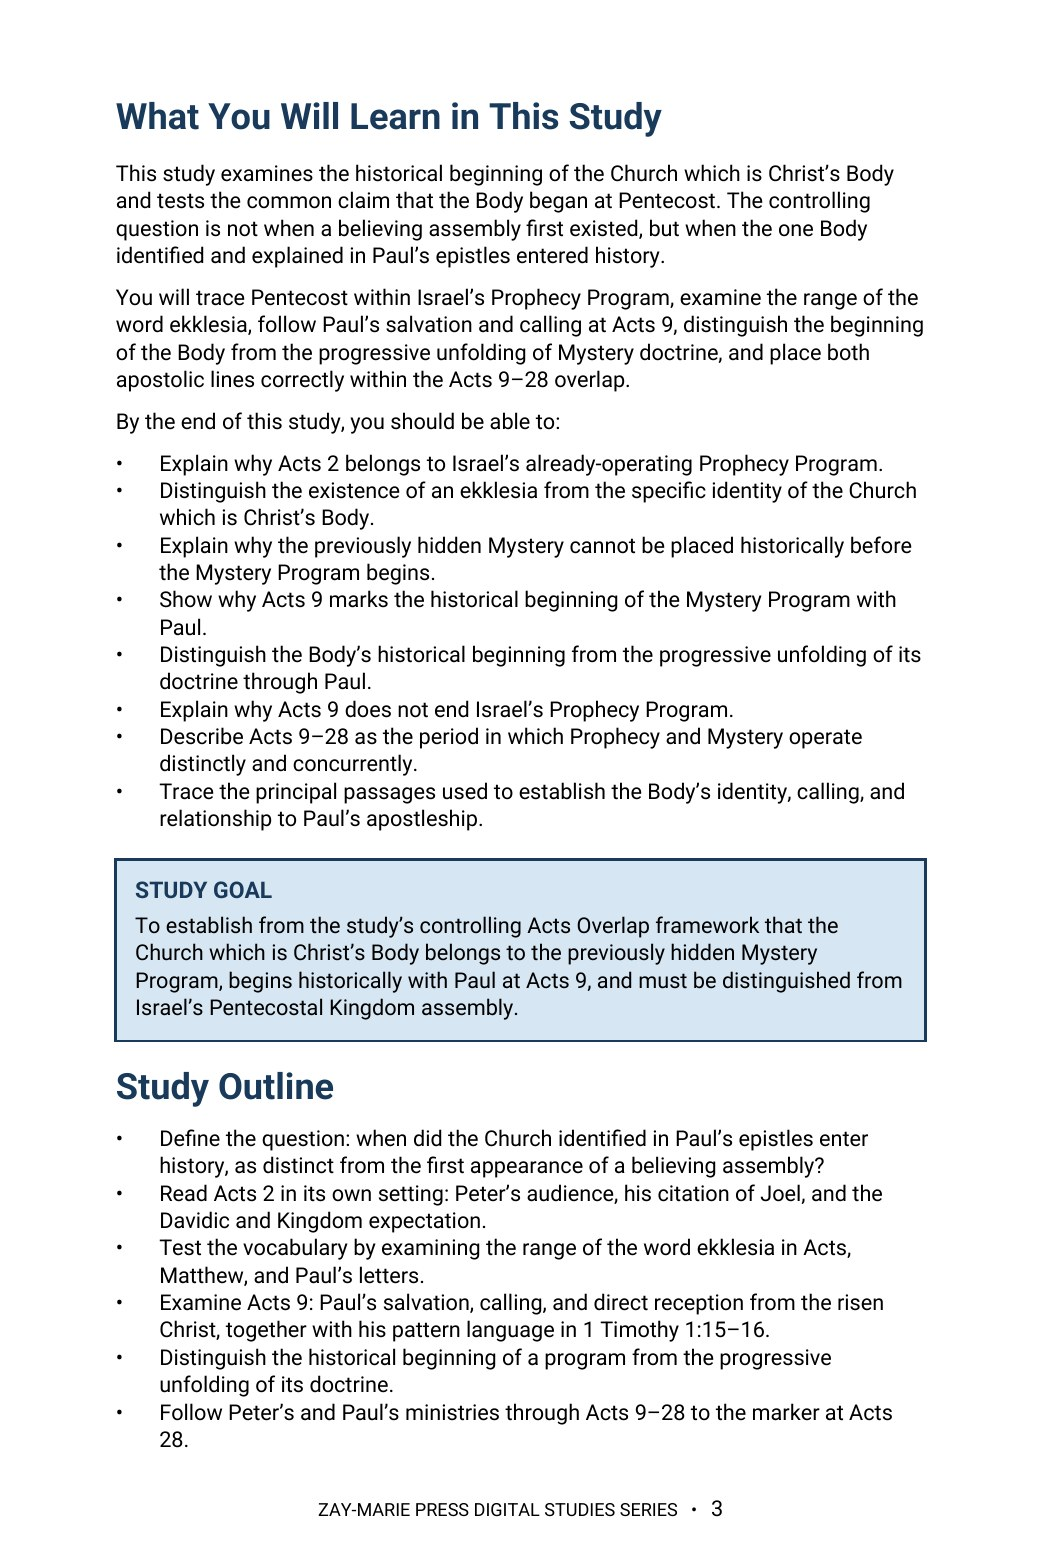
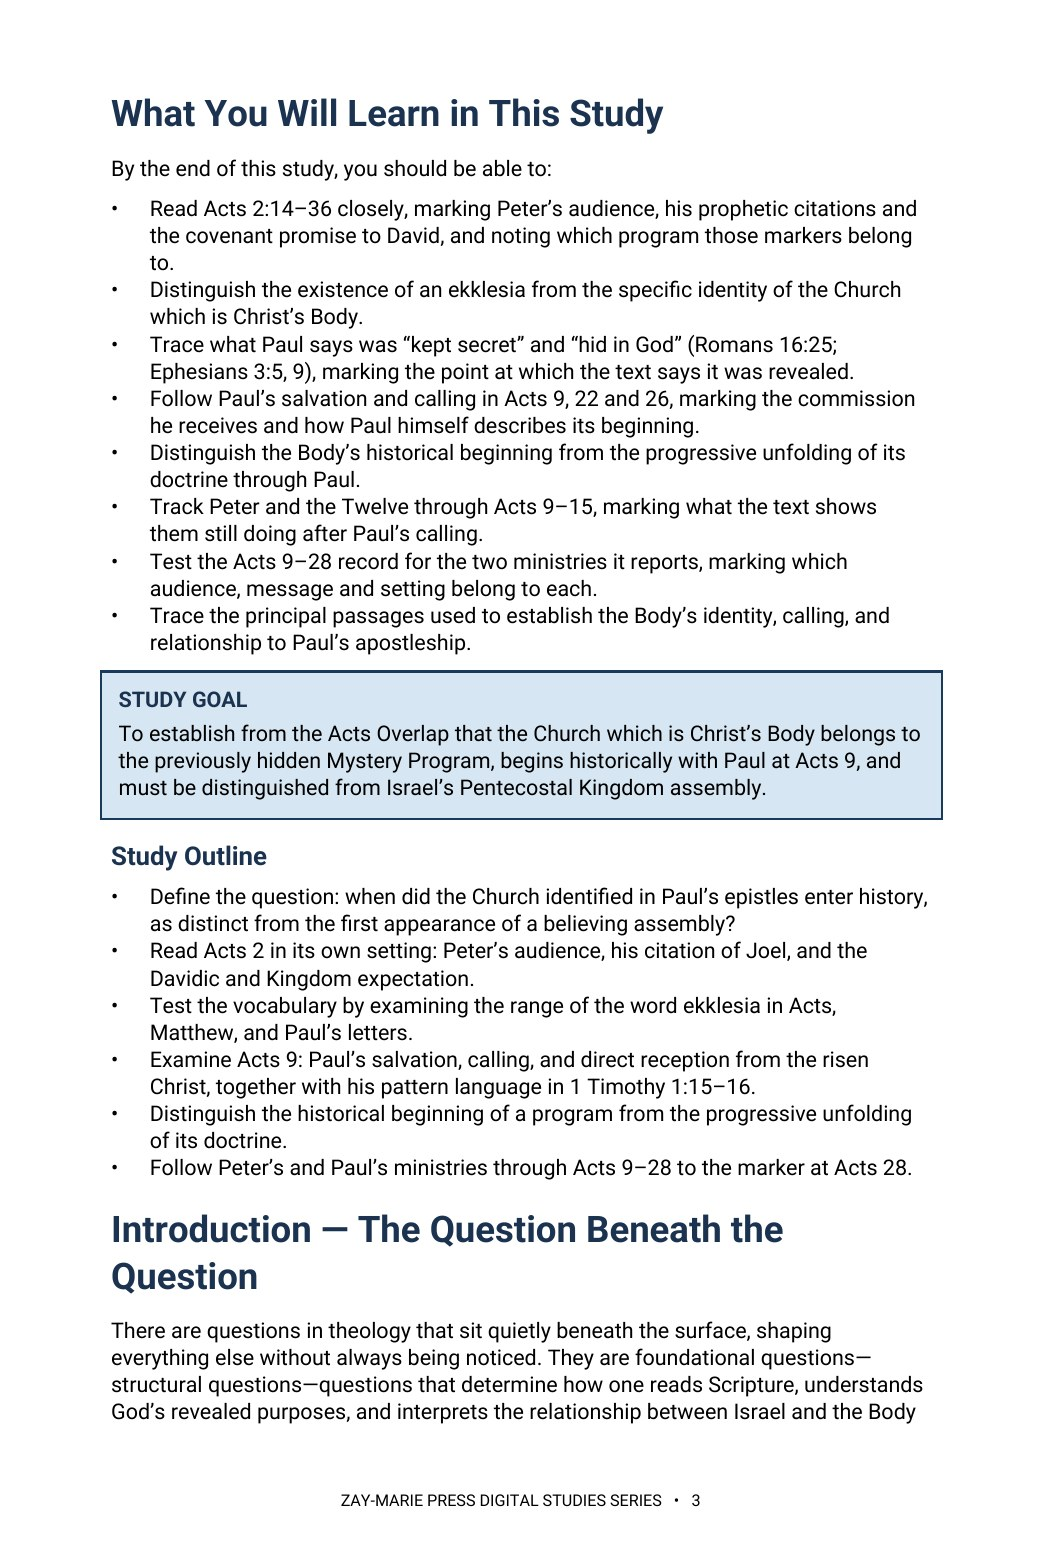
Study 11: rebuilt in Roboto 10 pt on current page (15 pages); previews 2, 3, 5 re-rendered; trackers v1.101/v1.195
Claude-Session: https://claude.ai/code/session_01HC7bs9KYP2scp4hCL6DkTp

diff --git a/study-11-the-beginning-of-the-body-of-christ.html b/study-11-the-beginning-of-the-body-of-christ.html
@@ -14,7 +14,7 @@
 <section class="detail-section soft"><div class="wrap"><div class="eyebrow">WHAT YOU’LL STUDY</div><h2>Locate the Body by Its Revealed Identity</h2><div class="study-points"><div class="study-point"><h3>The Question Scripture Must Answer</h3><p>Identify the Church which is Christ’s Body before deciding when it began historically.</p></div><div class="study-point"><h3>Pentecost in Its Prophetic Setting</h3><p>Read Acts 2 through Joel, Israel, David, and the promised Kingdom.</p></div><div class="study-point"><h3>Ekklesia Does Not Determine Identity</h3><p>See why an assembly word alone cannot establish program identity.</p></div><div class="study-point"><h3>Acts 9 and the Historical Beginning</h3><p>Follow Paul’s calling and the historical beginning of the Mystery Program.</p></div><div class="study-point"><h3>The Mystery Unfolded Through Paul</h3><p>Distinguish the Body’s historical beginning from the progressive unfolding of Body doctrine.</p></div><div class="study-point"><h3>Distinct and Concurrent Programs</h3><p>Keep the Prophecy and Mystery programs distinct throughout the Acts 9–28 overlap.</p></div></div></div></section>
 <section class="detail-section cream"><div class="wrap"><div class="eyebrow">KEY SCRIPTURES</div><h2>Examine the Passages for Yourself</h2><div class="scripture-grid"><div class="scripture-card"><h3>Joel 2:28–32; Acts 2:14–21</h3><p>Places Pentecost within Israel’s prophetic setting.</p></div><div class="scripture-card"><h3>Acts 2:22–36</h3><p>Shows Peter addressing Israel through Davidic and Kingdom expectation.</p></div><div class="scripture-card"><h3>Acts 7:38; 19:32, 39, 41</h3><p>Demonstrates the range of <em>ekklesia</em> as an assembly term.</p></div><div class="scripture-card"><h3>Ephesians 1:22–23; Colossians 1:18</h3><p>Explicitly identifies the Church as Christ’s Body.</p></div><div class="scripture-card"><h3>1 Corinthians 12:13, 27</h3><p>Establishes the one-Body relationship Paul explains.</p></div><div class="scripture-card"><h3>Acts 9:1–20; Galatians 1:11–17</h3><p>Traces Paul’s calling, commission, and direct reception from the risen Christ.</p></div><div class="scripture-card"><h3>Ephesians 2:14–16; 3:3–6</h3><p>Unfolds the one new man and the previously hidden Mystery.</p></div><div class="scripture-card"><h3>Acts 28:25–28</h3><p>Marks the national judicial suspension of Prophecy’s operation, with membership unchanged.</p></div></div></div></section>
 <section class="detail-section"><div class="wrap"><div class="eyebrow">FROM THE STUDY</div><h2>The Body Begins with Paul at Acts 9</h2><div class="excerpt"><blockquote>“The Body begins with Paul at Acts 9. Prophecy does not end there.”</blockquote><p>The Church which is Christ’s Body belongs to the Mystery Program. Israel’s believing Kingdom assemblies remain within the Prophecy Program; both programs operate distinctly and concurrently through Acts 28.</p></div></div></section>
-<section class="detail-section soft"><div class="wrap"><div class="eyebrow">A LOOK INSIDE</div><h2>Preview the Study Before You Purchase</h2><p class="preview-instruction">Click any page to enlarge it for reading.</p><div class="preview-grid"><div class="preview-card"><a class="preview-image-link" data-preview-lightbox href="assets/study-11-page-2.jpg"><img src="assets/study-11-page-2.jpg" alt="Study 11 interior preview — page 2, table of contents"/></a><div class="page-no">Page 2</div><h3>Table of Contents</h3><p>See the full structure of the study, from the introduction through the final synthesis.</p></div><div class="preview-card"><a class="preview-image-link" data-preview-lightbox href="assets/study-11-page-3.jpg"><img src="assets/study-11-page-3.jpg" alt="Study 11 interior preview — page 3, what you will learn and study outline"/></a><div class="page-no">Page 3</div><h3>What You Will Learn</h3><p>See the study’s goals and the outline that carries the study from the question to the Acts 28 marker.</p></div><div class="preview-card"><a class="preview-image-link" data-preview-lightbox href="assets/study-11-page-4.jpg"><img src="assets/study-11-page-4.jpg" alt="Study 11 interior preview — page 4, the question beneath the question"/></a><div class="page-no">Page 4</div><h3>The Question Beneath the Question</h3><p>Begin where the study begins: the question that must be settled before any answer is tested.</p></div></div></div></section>
+<section class="detail-section soft"><div class="wrap"><div class="eyebrow">A LOOK INSIDE</div><h2>Preview the Study Before You Purchase</h2><p class="preview-instruction">Click any page to enlarge it for reading.</p><div class="preview-grid"><div class="preview-card"><a class="preview-image-link" data-preview-lightbox href="assets/study-11-page-2.jpg"><img src="assets/study-11-page-2.jpg" alt="Study 11 interior preview — page 2, table of contents"/></a><div class="page-no">Page 2</div><h3>Table of Contents</h3><p>See the full structure of the study, from the introduction through the final synthesis.</p></div><div class="preview-card"><a class="preview-image-link" data-preview-lightbox href="assets/study-11-page-3.jpg"><img src="assets/study-11-page-3.jpg" alt="Study 11 interior preview — page 3, what you will learn and study outline"/></a><div class="page-no">Page 3</div><h3>What You Will Learn</h3><p>See the study’s goals and the outline that carries the study from the question to the Acts 28 marker.</p></div><div class="preview-card"><a class="preview-image-link" data-preview-lightbox href="assets/study-11-page-5.jpg"><img src="assets/study-11-page-5.jpg" alt="Study 11 interior preview — page 5, Pentecost within Israel’s Prophecy Program"/></a><div class="page-no">Page 5</div><h3>Pentecost Belongs to Israel’s Prophecy Program</h3><p>Read Acts 2 in its own setting, marking the audience, the prophetic citation and the covenant promise Peter appeals to.</p></div></div></div></section>
 <section class="detail-section"><div class="wrap"><div class="eyebrow">WHAT’S INCLUDED</div><h2>A Focused Study Built for<br/>Understanding and Teaching</h2><div class="includes-grid"><div class="include-item"><h3>15-Page In-Depth Biblical Study</h3><p>A focused, Scripture-based argument for the Body’s historical beginning at Acts 9.</p></div><div class="include-item"><h3>Six Core Teaching Sections</h3><p>Move from the controlling question to Pentecost, Acts 9, Paul, and the overlap.</p></div><div class="include-item"><h3>Pentecost and Ekklesia Study</h3><p>Read Acts 2 in context and distinguish an assembly term from program identity.</p></div><div class="include-item"><h3>Acts 9 Historical-Beginning Study</h3><p>Trace Paul’s calling and the Mystery Program’s beginning without ending Prophecy.</p></div><div class="include-item"><h3>12 Review Questions</h3><p>Test the study’s distinctions concerning Pentecost, Paul, the Body, and the Acts Overlap.</p></div><div class="include-item"><h3>Teaching Outline</h3><p>A ready framework for explaining the Body’s beginning with precision and restraint.</p></div><div class="include-item"><h3>Guided Further Study</h3><p>Return to Pentecost, the Body’s explicit identities, Paul’s commission, and the overlap.</p></div><div class="include-item"><h3>Final Synthesis Exercise</h3><p>Build the case from Scripture while preserving the distinct apostleships of Peter and Paul.</p></div></div></div></section>
 <section class="detail-section cream"><div class="wrap"><div class="final-buy"><div><div class="eyebrow">STUDY 11 · DIGITAL STUDY</div><h2>The Beginning of the Body of Christ</h2><p>15-page digital PDF · For personal use</p></div><div class="final-offer"><div class="detail-price">$5.99</div><span class="detail-button pending" aria-disabled="true">Get the Study</span></div></div><a class="back-link" href="digital-studies.html">← Back to All Digital Studies</a></div></section><section class="study-method-course-bridge"><div class="wrap"><div class="study-method-course-panel"><div><div class="eyebrow">BUILD THE INTERPRETIVE METHOD</div><h2>Want More Than a Focused Study?</h2><p>Digital Studies examine particular biblical subjects and difficult passages. The 40-lesson Biblical Hermeneutics course teaches a complete, repeatable method for establishing meaning in context, determining proper assignment, and making responsible application.</p></div><a class="btn btn-primary" href="biblical-hermeneutics-course.html">BIBLICAL HERMENEUTICS COURSE</a></div></div></section></main>
 <div class="preview-lightbox" id="preview-lightbox" role="dialog" aria-modal="true" aria-label="Enlarged study page preview"><button class="preview-lightbox-close" type="button" aria-label="Close enlarged preview">×</button><img src="" alt=""/><div class="preview-lightbox-hint">Scroll to read the full page · Press Esc or click outside the page to close</div></div>

diff --git a/CLAUDE.md b/CLAUDE.md
@@ -23,7 +23,7 @@ These are kept in the repo at `controlling-documents/` and are the current versi
 - As of v1.50 (publisher directive, 2026-10-03), the **What You Will Learn in This Study** section is always bulleted, never set as running paragraphs, written into this file in the same pass (Master Standard Section 3 item 4, Section 6 structure line, Section 22): a list of bullet points, each describing one process, textual marker or interpretive discipline the reader will practice (Section 17 still governs what they may say); at most one short lead-in line may stand above the bullets (for example, “By the end of this study, you should be able to:”); the Study Goal callout and the Study Outline keep their own forms. It governs every new study and every study rebuilt or retrofitted from now on; earlier studies take it when reopened or when the publisher directs. In every study check (Step 1), report whether the section is bulleted. First applied to Study 43.
 **`controlling-documents/Digital_Studies_Relationship_Map_v1.39.md`** — records each study's distinct subject, its related studies, the eight priced six-study collections, the Paul's Missionary Journeys cross-reference map, and the five primary catalog categories (currently version 1.39, covers Studies 1–71; update it as new studies publish, bump the version number, rename the file to match, and log the change in its own version-history table — mirroring the Master Standard's `_vX.Y` filename convention). Check a proposed topic against it before recommending or writing a new study. (2026-09-28: the file was missing from this repo despite this note referencing it; replaced from the publisher's copy and bumped v1.15→v1.25 in the same pass. If this note ever again points to a version not present under `controlling-documents/`, ask the publisher for a copy rather than proceeding without the check.)
 - **`controlling-documents/Digital_Studies_Category_Standard_v1.1.md`** — FINAL and binding (publisher, 2026-10-01): the rules for the five primary catalog categories (Foundations, Israel & Prophecy, Body of Christ, Passages, Doctrinal Themes), the ordered decision procedure for new studies, the precedents, all 71 fixed assignments, and the cover-label form for each category. Read it before placing any card or cover label. Do not ask the publisher where a study belongs; apply the procedure and state the result. Only the publisher changes a ruling; then bump this Standard's version and filename, re-letter the cover, and update the Relationship Map.
-- **`controlling-documents/Doctrinal_Upgrade_Retrofit_Plan_v1.100.md`** — working tracker for retrofitting Studies 1–59 to the 2026-10-02 doctrinal upgrade (Framework/PAM v1.1, Master Standard v1.40, Rules 7–17): withdrawn-wording search keys, impact tiers, waves and the per-study method. Read it before continuing the retrofit in any session; update status, bump the version and rename the file as work proceeds.
+- **`controlling-documents/Doctrinal_Upgrade_Retrofit_Plan_v1.101.md`** — working tracker for retrofitting Studies 1–59 to the 2026-10-02 doctrinal upgrade (Framework/PAM v1.1, Master Standard v1.40, Rules 7–17): withdrawn-wording search keys, impact tiers, waves and the per-study method. Read it before continuing the retrofit in any session; update status, bump the version and rename the file as work proceeds.
 - **`controlling-documents/Doctrinal_Packet_Standard_v0.3.md`** — Doctrinal Packet Standard (DRAFT; §7 approved). Governs the separate Doctrinal Packets product strand (5-page interpretive PDFs per Bible book — a print-friendly cover as page 1 plus 4 content pages, $2.99, KJV, pilot: Genesis, live at `packet-genesis.html`, hub `doctrinal-packets.html`; site pages say "5 Pages", cover styles live in `packets.css`, Old Testament blue and New Testament soft pale green, hub listed in Bible order). **Preview rule (publisher directive, 2026-09-29, packets only):** previews show about one page's worth in two cropped views (top of page 1 through the anchor texts; the chart section) — never the exegesis, architecture, Mystery contrast, logic chain, outline, or closing. Master Standard §16/§17 still govern Digital Studies. Bump the version and rename the file as the Standard is finalized.
 - **`controlling-documents/Preview_Page_Spoiler_Retrofit_Audit_v1.4.md`** — working tracker for the Studies 1–60 preview-page conclusion-spoiler retrofit (see the section below). Read it before continuing that audit in any session; update its status fields and changelog, bump the version, and rename the file to match as the audit proceeds — same `_vX.Y` convention as the other controlling documents. As of v1.1, the website-side half was DONE: all 60 studies' "What You'll Study" text was judged against the rule (methodology documented in the file) and 22 points across 11 studies were rewritten and pushed; an unrelated Study 22 content bug (Study 21's content had leaked into it) was also found and fixed. As of v1.2, the publisher supplied Studies 1–60's interior production PDFs and the interior-PDF half was also surveyed (read-only): 10 studies (37, 41, 45, 47, 48, 49, 51, 52, 53, 54) were found to have at least one interior "What You Will Learn" violation, 50 studies were confirmed compliant, and the orphaned `assets/study-45-sanctification-under-grace.docx` (removed from the repo per the publisher in v1.0) was confirmed word-for-word identical to Study 45's actual production interior PDF content. As of v1.3, the publisher supplied editable DOCX sources for all 10 violating studies; all 15 violating points were rewritten and approved, delivered as corrected final PDFs, and — along the way — a second defect was found and fixed (Studies 47 and 48's source DOCX still had an unintegrated cover placeholder despite both being long-published live with real covers; fixed by inserting the existing approved cover art). The website's "What You Will Learn" preview image (`study-NN-page-3.jpg`) was regenerated from the corrected content for all 10 studies and pushed to `main` (commit `cea1859`), verified against a fresh clone. **The website side of this audit is now fully compliant for all 60 studies.** Outstanding: the publisher's purchasable interior PDF files themselves have corrected versions delivered, but distribution to existing purchasers was decided by the publisher on 2026-09-29: silent swap of the files behind the existing downloads, no reissue notice (recorded in the v1.4 changelog entry; the product files are not in this repo).
 

diff --git a/controlling-documents/Doctrinal_Upgrade_Retrofit_Plan_v1.101.md b/controlling-documents/Doctrinal_Upgrade_Retrofit_Plan_v1.101.md
@@ -193,3 +193,4 @@ Working tracker for correcting published studies to the Framework/PAM v1.1, Mast
 - v1.98 (2026-10-04): Publisher ruling — Roboto has no arrow glyph, so every '→' in a study is set as '»' (Roboto-only rule holds; no fallback font). Study 5 changed from '›' to '»'; previews 2, 3 and 7 re-rendered; page count unchanged (15). Apply to every later study that uses arrows. Rule-sync note: this is a drafting convention recorded in the Plan; the publisher has not asked for it to be written into the Master Standard.
 - v1.99 (2026-10-04): Study 6 rebuilt in Roboto at 10 pt on the current page, 15 pages (was 16). 23 callouts reduced to 5; WYWL bullets 1, 3, 5, 9 reworded; Romans 11 four-point list and triad added; overlap and Rule 17 sentences added; resumption wording softened; arrows » and checkboxes [ ]. Previews 2, 3 and 6 re-rendered at 1041×1562; site.js 6:15; study page 15 pages.
 - v1.100 (2026-10-04): Study 9 rebuilt in Roboto at 10 pt on the current page, 15 pages (was 16). Callouts 4 -> 5 (new 'Romans 11 Boundaries' callout, drafted from the standing rule wording; to be compared with Study 13 when that study is retrofitted); WYWL bullets 3, 4, 6, 7, 8 reworded; overlap, Rule 17 and Revelation sentences added; 'A Note on the Acts Overlap Framework' retitled 'A Note on the Acts Overlap' and framework wording removed. New cover (publisher artwork, 1024×1536, badge removed) replaces the earlier cover. Previews 2, 3 and 8 re-rendered at 1041×1562; site.js 9:15; study page 15 pages.
+- v1.101 (2026-10-04): Study 11 rebuilt in Roboto at 10 pt on the current page, 15 pages (was 15 on the old 432×648 page; page count unchanged). WYWL bullets 1, 3, 4, 7, 8 reworded to process lines; intro paragraphs removed; 'framework' wording removed from reader text (10 places); overlap, Rule 17, Cornelius and 1 Timothy sentences added; Acts 28 set as national suspension with no chronology; Teaching Outline numbered. Previews 2, 3 and 5 re-rendered at 1041×1562 (substantive preview moved from page 4 to page 5, relabelled Pentecost); site.js 11:15 unchanged.

diff --git a/controlling-documents/Digital_Studies_PAM_Audit_v1.195.md b/controlling-documents/Digital_Studies_PAM_Audit_v1.195.md
@@ -424,3 +424,4 @@ Study 15 PDF not yet supplied. Typography: none of Studies 2, 3, 6, 8 is in EB G
 - v1.192 (2026-10-04): Study 5 chain arrow set as '»' (publisher ruling; see Retrofit Plan v1.98).
 - v1.193 (2026-10-04): Study 6 rebuilt in Roboto at 10 pt on the current page from the publisher's DOCX, 15 pages (was 16; old 432×648 page retired). Changes: What You Will Learn as bullets under one lead-in (bullets 1, 3, 5, 9 reworded to process lines); 18 extra callouts set as run-in paragraphs (5 boxed); Romans 11 four-point list and triad added to section 10; overlap and Rule 17 sentences added; section 11 resumption wording softened; arrows set as » (see Retrofit Plan v1.99).
 - v1.194 (2026-10-04): Study 9 rebuilt in Roboto at 10 pt on the current page from the publisher's DOCX, 15 pages (was 16; old 432×648 page retired); new cover from the publisher's artwork (badge removed). Changes: What You Will Learn as bullets under one lead-in (bullets 3, 4, 6, 7, 8 reworded to process lines); fifth callout 'Romans 11 Boundaries' added (full Romans 11 depth); overlap, Rule 17 and Revelation sentences added; resumption wording softened; 'framework' wording removed from reader text; arrows » (see Retrofit Plan v1.100).
+- v1.195 (2026-10-04): Study 11 rebuilt in Roboto at 10 pt on the current page, 15 pages; WYWL bullets reworded to process lines; 'framework' wording removed from reader text; overlap, Rule 17, Cornelius and 1 Timothy sentences added; Acts 28 national suspension, no chronology; Teaching Outline numbered (see Retrofit Plan v1.101).
